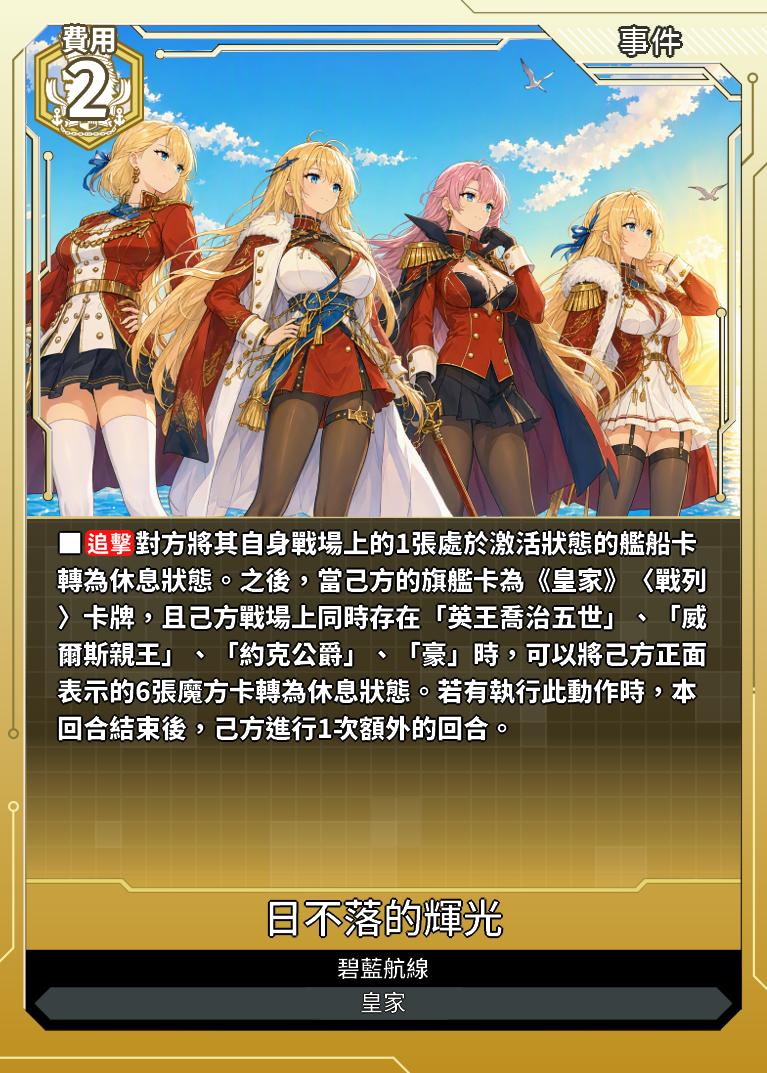
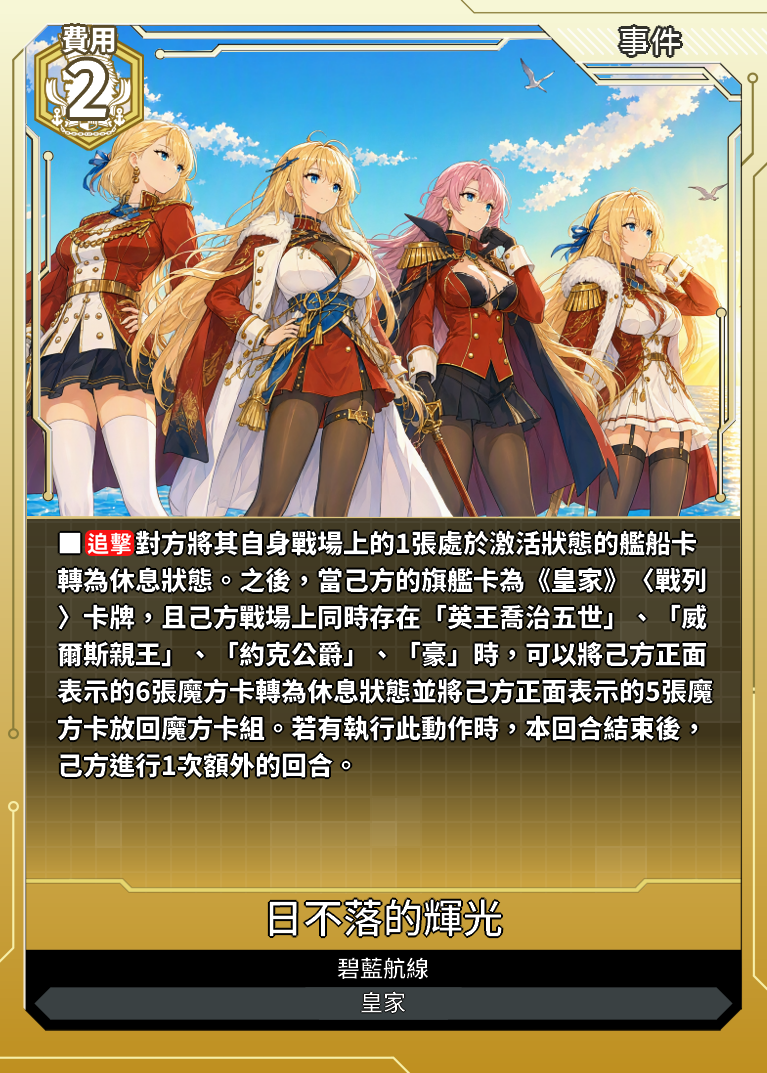
修日不落的輝光

Changed region(s): [[0.06, 0.6151, 0.9296, 0.7381]]

diff --git a/data.js b/data.js
@@ -27188,7 +27188,7 @@ const cards = [
             "支援範圍": "-",
             "支援值": "-"
         },
-        "card_effect": "■【追擊】對方將其自身戰場上的1張處於激活狀態的艦船卡轉為休息狀態。之後，當己方的旗艦卡為《皇家》〈戰列〉卡牌，且己方戰場上同時存在「英王喬治五世」、「威爾斯親王」、「約克公爵」、「豪」時，可以將己方正面表示的6張魔方卡轉為休息狀態。若有執行此動作時，本回合結束後，己方進行1次額外的回合。",
+        "card_effect": "■【追擊】對方將其自身戰場上的1張處於激活狀態的艦船卡轉為休息狀態。之後，當己方的旗艦卡為《皇家》〈戰列〉卡牌，且己方戰場上同時存在「英王喬治五世」、「威爾斯親王」、「約克公爵」、「豪」時，可以將己方正面表示的6張魔方卡轉為休息狀態，並將己方正面表示的5張魔方卡放回魔方卡組。若有執行此動作時，本回合結束後，己方進行1次額外的回合。",
         "acquisition_method": "CE03-早期測試"
     },
 	{
